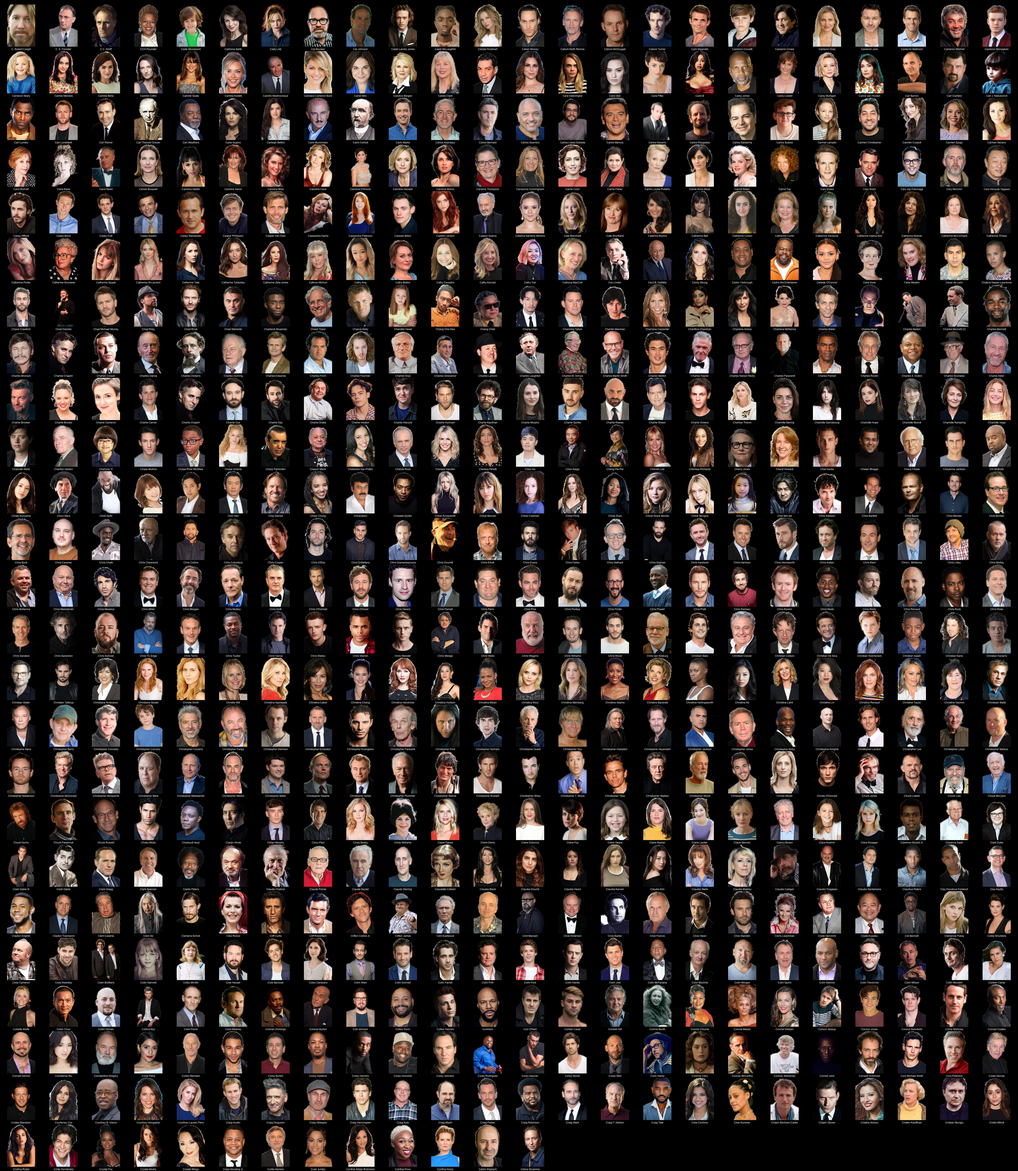
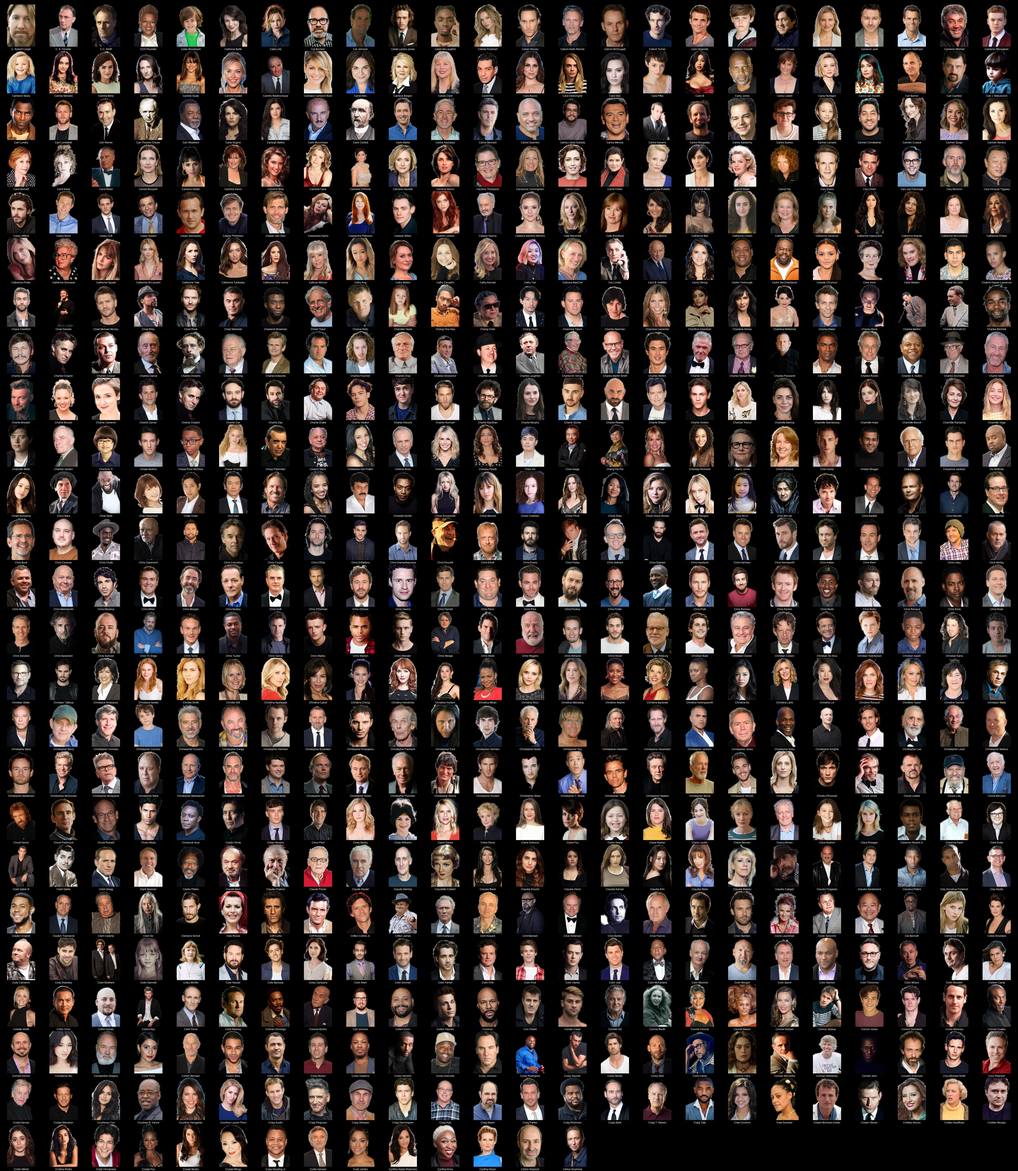
more people

Changed region(s): [[0.0, 0.8725, 1.0, 1.0]]

diff --git a/B/README.md b/B/README.md
@@ -1,4 +1,4 @@
-# Kometa People Images - Transparent (transparent) - B (454 Images)
+# Kometa People Images - Transparent (transparent) - B (456 Images)
 ![Grid](grid.jpg)
 
 * [B.J. Penn](https://raw.githubusercontent.com/Kometa-Team/People-Images-transparent/master/B/Images/B.J.%20Penn.png)
@@ -85,6 +85,7 @@
 * [Ben Knox Miller](https://raw.githubusercontent.com/Kometa-Team/People-Images-transparent/master/B/Images/Ben%20Knox%20Miller.png)
 * [Ben Lamb](https://raw.githubusercontent.com/Kometa-Team/People-Images-transparent/master/B/Images/Ben%20Lamb.png)
 * [Ben Lambert](https://raw.githubusercontent.com/Kometa-Team/People-Images-transparent/master/B/Images/Ben%20Lambert.png)
+* [Ben LeClair](https://raw.githubusercontent.com/Kometa-Team/People-Images-transparent/master/B/Images/Ben%20LeClair.png)
 * [Ben Lewis](https://raw.githubusercontent.com/Kometa-Team/People-Images-transparent/master/B/Images/Ben%20Lewis.png)
 * [Ben Mendelsohn](https://raw.githubusercontent.com/Kometa-Team/People-Images-transparent/master/B/Images/Ben%20Mendelsohn.png)
 * [Ben Miles](https://raw.githubusercontent.com/Kometa-Team/People-Images-transparent/master/B/Images/Ben%20Miles.png)
@@ -264,6 +265,7 @@
 * [Boluwatife Treasure Bankole](https://raw.githubusercontent.com/Kometa-Team/People-Images-transparent/master/B/Images/Boluwatife%20Treasure%20Bankole.png)
 * [Boman Irani](https://raw.githubusercontent.com/Kometa-Team/People-Images-transparent/master/B/Images/Boman%20Irani.png)
 * [Bong Joon-ho](https://raw.githubusercontent.com/Kometa-Team/People-Images-transparent/master/B/Images/Bong%20Joon-ho.png)
+* [Bonnie Arnold](https://raw.githubusercontent.com/Kometa-Team/People-Images-transparent/master/B/Images/Bonnie%20Arnold.png)
 * [Bonnie Bedelia](https://raw.githubusercontent.com/Kometa-Team/People-Images-transparent/master/B/Images/Bonnie%20Bedelia.png)
 * [Bonnie Hunt](https://raw.githubusercontent.com/Kometa-Team/People-Images-transparent/master/B/Images/Bonnie%20Hunt.png)
 * [Bonnie Wright](https://raw.githubusercontent.com/Kometa-Team/People-Images-transparent/master/B/Images/Bonnie%20Wright.png)

diff --git a/C/README.md b/C/README.md
@@ -1,4 +1,4 @@
-# Kometa People Images - Transparent (transparent) - C (589 Images)
+# Kometa People Images - Transparent (transparent) - C (590 Images)
 ![Grid](grid.jpg)
 
 * [C. Robert Cargill](https://raw.githubusercontent.com/Kometa-Team/People-Images-transparent/master/C/Images/C.%20Robert%20Cargill.png)
@@ -535,6 +535,7 @@
 * [Coral Peña](https://raw.githubusercontent.com/Kometa-Team/People-Images-transparent/master/C/Images/Coral%20Pe%C3%B1a.png)
 * [Corbin Bernsen](https://raw.githubusercontent.com/Kometa-Team/People-Images-transparent/master/C/Images/Corbin%20Bernsen.png)
 * [Corbin Bleu](https://raw.githubusercontent.com/Kometa-Team/People-Images-transparent/master/C/Images/Corbin%20Bleu.png)
+* [Cord Jefferson](https://raw.githubusercontent.com/Kometa-Team/People-Images-transparent/master/C/Images/Cord%20Jefferson.png)
 * [Corey Burton](https://raw.githubusercontent.com/Kometa-Team/People-Images-transparent/master/C/Images/Corey%20Burton.png)
 * [Corey Hawkins](https://raw.githubusercontent.com/Kometa-Team/People-Images-transparent/master/C/Images/Corey%20Hawkins.png)
 * [Corey Hendrix](https://raw.githubusercontent.com/Kometa-Team/People-Images-transparent/master/C/Images/Corey%20Hendrix.png)

diff --git a/D/README.md b/D/README.md
@@ -1,4 +1,4 @@
-# Kometa People Images - Transparent (transparent) - D (599 Images)
+# Kometa People Images - Transparent (transparent) - D (600 Images)
 ![Grid](grid.jpg)
 
 * [D.L. Hughley](https://raw.githubusercontent.com/Kometa-Team/People-Images-transparent/master/D/Images/D.L.%20Hughley.png)
@@ -215,6 +215,7 @@
 * [David Bailie](https://raw.githubusercontent.com/Kometa-Team/People-Images-transparent/master/D/Images/David%20Bailie.png)
 * [David Barron](https://raw.githubusercontent.com/Kometa-Team/People-Images-transparent/master/D/Images/David%20Barron.png)
 * [David Bauer](https://raw.githubusercontent.com/Kometa-Team/People-Images-transparent/master/D/Images/David%20Bauer.png)
+* [David Beckham](https://raw.githubusercontent.com/Kometa-Team/People-Images-transparent/master/D/Images/David%20Beckham.png)
 * [David Bedella](https://raw.githubusercontent.com/Kometa-Team/People-Images-transparent/master/D/Images/David%20Bedella.png)
 * [David Benioff](https://raw.githubusercontent.com/Kometa-Team/People-Images-transparent/master/D/Images/David%20Benioff.png)
 * [David Boreanaz](https://raw.githubusercontent.com/Kometa-Team/People-Images-transparent/master/D/Images/David%20Boreanaz.png)
